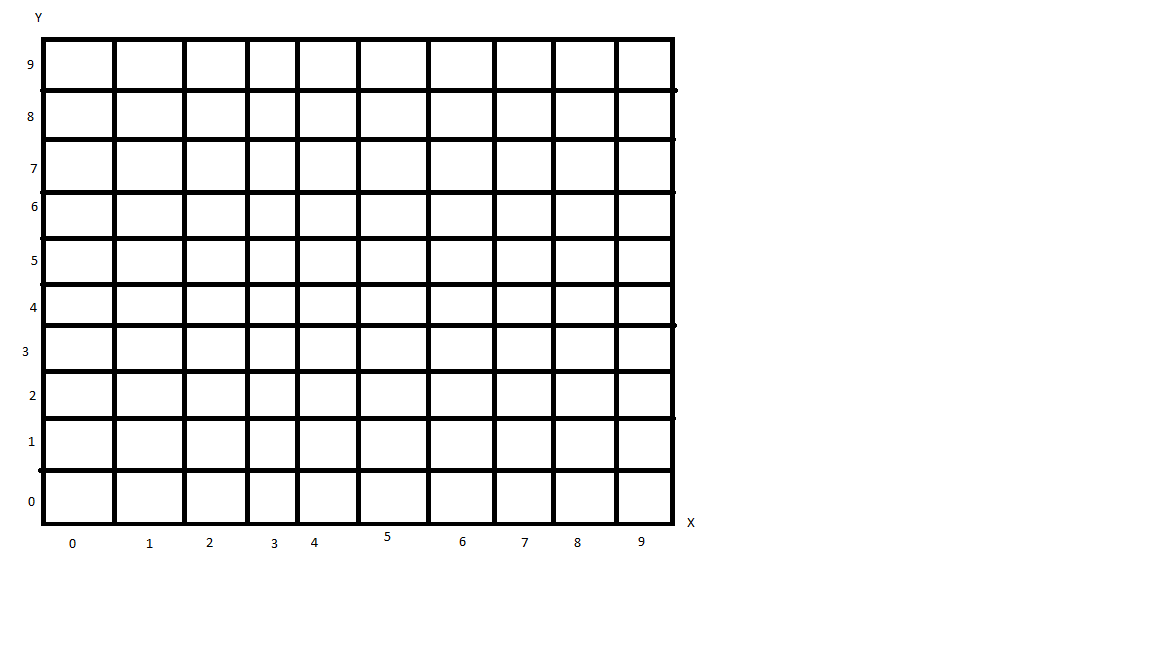
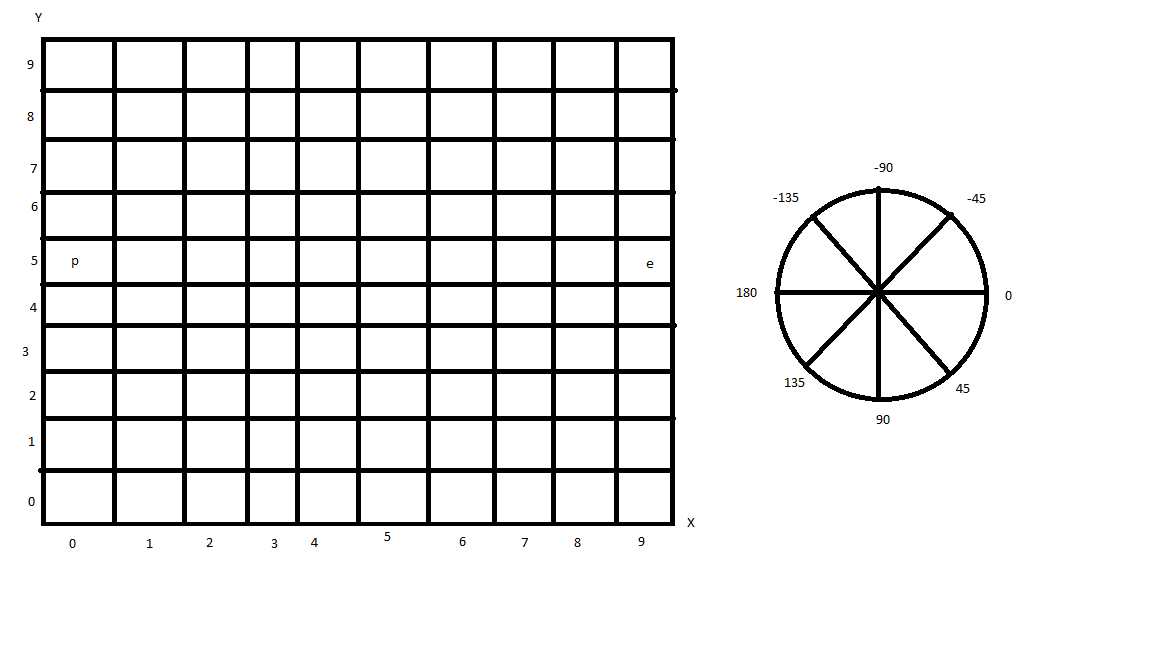
OOP Python shooterGameV2

Changed region(s): [[0.625, 0.2469, 0.875, 0.6481], [0.8125, 0.3086, 0.8438, 0.3704], [0.6875, 0.3086, 0.7188, 0.3704]]

diff --git a/shootergameDarioV2/shootergamedariov2/main.py b/shootergameDarioV2/shootergamedariov2/main.py
@@ -3,33 +3,63 @@ from shootergamedariov2.createPossibleErrors import *
 
 # Holds every value of player and enemy.
 class StatsOfEntity:
-    def __init__(self, shoot:bool, damageTaken:int, movement:str, turn:str, position:tuple, direction:str, firepower:int, beginningHealth:int, currentHealth:int):
+    def __init__(self, shoot:bool, damageTaken:int, movement:str, turn:str, x, y, direction:str, firepower:int, currentHealth:int):
         self.shoot = shoot
         self.damageTaken = damageTaken
         self.movement = movement
+        self.x = x
+        self.y = y
         self.turn = turn
-        self.position = position
         self.direction = direction
         self.firepower = firepower
-        self.beginningHealth = beginningHealth
         self.currentHealth = currentHealth
+    
+    def calcDamageTaken(self):
+        self.currentHealth -= self.damageTaken
+
+    def calcMovement(self):
+        if self.movement == "front":
+            self.x += 1
+        if self.movement == "back":
+            self.x -= 1
+        if self.movement == "up":
+            self.y += 1
+        if self.movement == "down":
+            self.y -= 1
+
+    def checkDirection(self):
+        if self.turn == "right":
+            self.direction += 45
+        elif self.turn == "left":
+            self.direction -= 45
+
+        if self.direction < -135:
+            self.direction == 180
+        elif self.direction > 180:
+            self.direction == -135
+
+    def shootBullet(self):
+        if self.shoot == True:
+            pass
+
 
 
 # Holds every value of an object like rocks, etc.
 class StatsOfStaticObject:
-    def __init__(self, position:tuple, width:int, height:int, damageTaken:int, startingHealth:int, currentHealth:int):
-        self.position = position
+    def __init__(self, x, y, width:int, height:int, damageTaken:int, currentHealth:int):
+        self.x = x
+        self.y = y
         self.width = width
         self.height = height
         self.damageTaken = damageTaken
-        self.startingHealth = startingHealth
         self.currentHealth = currentHealth
 
 
 # Creates a class for a bullet.
 class bullet:
-    def __init__(self, position:tuple, direction:str, firepowerOfEntity:int):
-        self.postion = position
+    def __init__(self, x, y, direction:str, firepowerOfEntity:int):
+        self.x = x
+        self.y = y
         self.direction = direction
         self.firepowerOfEntity = firepowerOfEntity
 
@@ -60,29 +90,17 @@ class Map:
 
 # Creates a class for a player.
 class Player(StatsOfEntity):
-    def __init__(self, shoot:bool, damageTaken:int, movement:str, turn:str, position:tuple, direction:str, firepower:int, beginningHealth:int, currentHealth:int, armour:int):
+    def __init__(self, shoot:bool, damageTaken:int, movement:str, turn:str, x, y, direction:str, firepower:int, armour:int):
         self.shoot = shoot
         self.damageTaken = damageTaken
         self.movement = movement
         self.turn = turn
-        self.position = position
+        self.x = x
+        self.y = y
         self.direction = direction
         self.firepower = firepower
-
-        if self.isValidAmountOFHealth(beginningHealth):
-            self.beginningHealth = beginningHealth
-        else:
-            raise InsufficientAmountOfHealth(f"The starting amount of health has to be greater than 10.")
-
-        self.currentHealth = currentHealth
         self.armour = armour
 
-    def isValidAmountOFHealth(self, beginningHealth):
-        if beginningHealth < 10:
-            return False
-        else:
-            True
-        
 
 # Creates a class for an enemy.
 class Enemy(StatsOfEntity):

diff --git a/shootergameDarioV2/tests/test_main.py b/shootergameDarioV2/tests/test_main.py
@@ -7,24 +7,24 @@ from shootergamedariov2.createPossibleErrors import *
 def playerModel1():
     """Creates a 'player' model dummy"""
     # Required stats:
-    # shoot:bool, damagTaken:int, movement:str, turn:str, position:tuple, direction:str, firepower:int, beginningHealth:int, currentHealth:int, armour:int
-    return Player(False, 0, 'front', "none", (1, 5), "front", 5, 20, 20, 10)
+    # shoot:bool, damagTaken:int, movement:str, turn:str, x, y, direction:str, firepower:int, currentHealth:int, armour:int
+    return Player(False, 0, 'front', "none", 1, 5, "front", 5, 20, 10)
 
 
 @pytest.fixture
 def enemyModel1():
     """Creates a 'enemy' model dummy"""
     # Required stats:
-    # shoot:bool, damagTaken:int, movement:str, turn:str, position:tuple, direction:str, firepower:int, beginningHealth:int, currentHealth:int
-    return Enemy(False, 2, 'front', "none", (10, 5), "front", 5, 20, 18)
+    # shoot:bool, damagTaken:int, movement:str, turn:str, x, y, direction:str, firepower:int, currentHealth:int
+    return Enemy(False, 2, 'front', "none", 10, 5, "front", 5, 18)
 
 
 @pytest.fixture
 def falsePlayerModel1():
     """Creates a incorrect 'player' model dummy"""
     # Required stats:
-    # shoot:bool, damagTaken:int, movement:str, turn:str, position:tuple, direction:str, firepower:int, beginningHealth:int, currentHealth:int, armour:int
-    return Player(False, 0, 'front', "none", (2, 6), "front", 5, 9, 20, 10)
+    # shoot:bool, damagTaken:int, movement:str, turn:str, x, y, direction:str, firepower:int, currentHealth:int, armour:int
+    return Player(False, 0, 'front', "none", 2, 6, "front", 5, 20, 10)
 
 
 @pytest.fixture
@@ -64,9 +64,3 @@ def test_invalidValuesOfMapSize(width, height):
 
 def test_validMapSize(mapSize1Of100):
     assert mapSize1Of100.width == 10 and mapSize1Of100.height == 10 and mapSize1Of100.size == 100
-
-
-def test_invalidAmountOfHealth(falsePlayerModel1):
-    with pytest.raises(InsufficientAmountOfHealth):
-        falsePlayerModel1
-        
